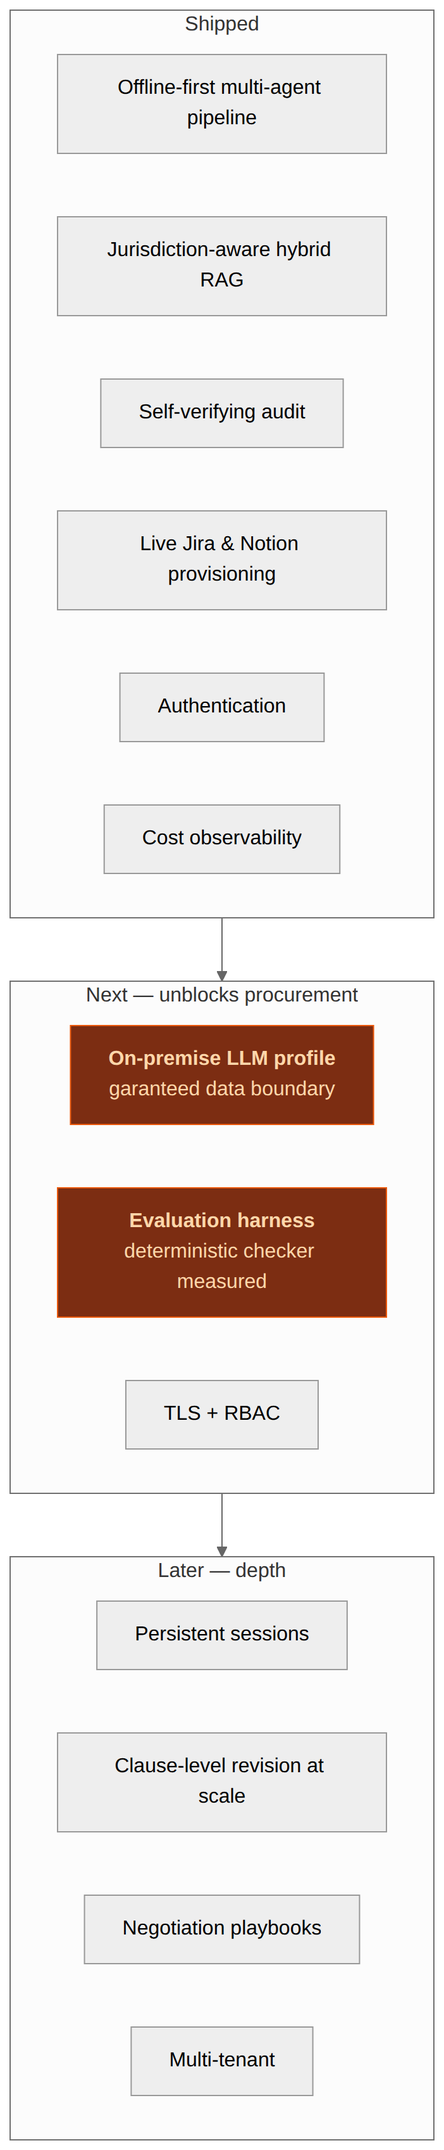
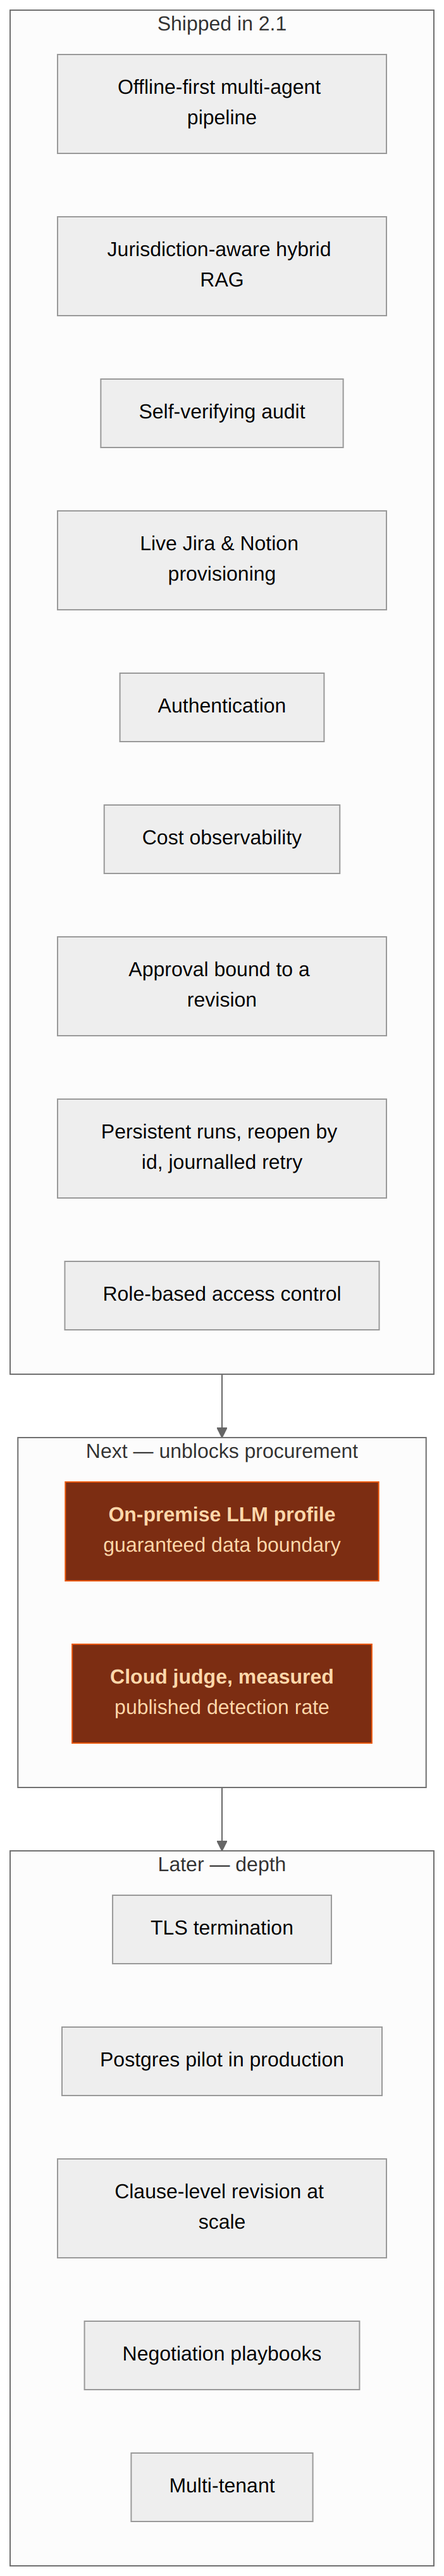
release: 2.1.0 (#57)
* release: 2.1.0

The version was still 2.0.0 everywhere while the features had moved a release ahead. This bumps
the package, the image tag and the action reference, writes the changelog entry, and reconciles
the documentation with what the code actually does.

## Documentation that had become false

Three claims were true in 2.0.0 and none was true in 2.1.0:

| Where | Said | Reality |
| :-- | :-- | :-- |
| Architecture | "No database. Sessions are checkpointed in memory." | Runs, decisions and journals are stored; the checkpointer is pluggable |
| Security | "No role-based access control — every user can do everything" | Four roles enforced; an author cannot approve their own run |
| Roadmap | "Roles are recorded but not enforced" | Enforced |

The roadmap entries are now split rather than deleted: what shipped, and what remains. RBAC is
done, so the entry is TLS alone. Persistence is done, so the entry is Postgres acceptance alone.
Deleting them would have hidden that the remaining halves are real.

The same reconciliation was applied to the two open issues that covered them (#22, #23): bodies
rewritten to describe only the open half, titles changed so the tracker does not read as if
nothing had shipped.

## Test counts

Five places claimed 483 or 490 tests. There are 626. A number nobody re-runs is a number that
quietly stops being true.

## The demo states its version

Streamlit Cloud redeploys from `main`, but a visitor had no way to tell a current deployment from
[…]

diff --git a/demo/streamlit_app.py b/demo/streamlit_app.py
@@ -71,6 +71,28 @@ st.set_page_config(
 #: The brief the demo opens with. Not decoration: it is the difference between a visitor
 #: seeing a contract that passed and a contract that failed its own audit.
 #:
+from sowsprint import __version__  # noqa: E402
+
+
+def _build_date() -> str:
+    """When this deployment's code was built, as far as the container can tell.
+
+    A visitor has no way to tell a current deployment from one that stopped redeploying months
+    ago, and this demo is the first thing most of them see. The version alone does not answer
+    it; the date does.
+    """
+    import datetime as _dt
+
+    stamp = os.environ.get("SOWSPRINT_BUILD_DATE", "").strip()
+    if stamp:
+        return stamp
+    try:
+        mtime = Path(__file__).stat().st_mtime
+        return _dt.datetime.fromtimestamp(mtime, _dt.UTC).strftime("%Y-%m-%d")
+    except OSError:
+        return "unknown"
+
+
 #: The offline drafter cites evidence only when a retrieved passage contains one of a clause's
 #: keywords, so a brief that mentions "GDPR-compliant logging" in passing produces clauses with
 #: nothing behind them — the audit then fails the draft on grounding, honestly and to nobody's
@@ -563,5 +585,6 @@ st.caption(
     "human approval gate, contract revision with locked clauses, and per-agent cost "
     "telemetry. "
     "[Repository](https://github.com/SergeyGer/SOWSprint.ai) · "
-    "[Wiki](https://github.com/SergeyGer/SOWSprint.ai/wiki)"
+    "[Wiki](https://github.com/SergeyGer/SOWSprint.ai/wiki) · "
+    f"running {__version__}, pushed {_build_date()}"
 )

diff --git a/src/sowsprint/__init__.py b/src/sowsprint/__init__.py
@@ -7,5 +7,5 @@ state graph with compliance-aware retrieval augmentation.
 
 from __future__ import annotations
 
-__version__ = "2.0.0"
+__version__ = "2.1.0"
 __all__ = ["__version__"]

diff --git a/CHANGELOG.md b/CHANGELOG.md
@@ -9,6 +9,79 @@ the what cannot help anyone decide whether to upgrade.
 
 ---
 
+## 2.1.0 — 2026-11-10
+
+Two release-blocking defects, both of the same shape: the system did something reasonable and
+said nothing, and the absence of a statement was read as success.
+
+**A dry run could write to a live tracker.** `ToolExecutor` never knew its own mode — the flag
+defaulted to `True` while the adapters read settings that said live — so a "validated, nothing
+sent" run created and deleted six real Jira projects and three Notion pages before anyone
+looked. The executor now takes its mode explicitly and refuses to send a live call without a
+publication decision on record.
+
+**A partial batch created a second project on retry.** No record of what had already been sent
+meant a retry re-created everything. Every operation now carries a key stable across attempts;
+the executor reads the journal first, skips what succeeded, and reuses the saved identifier, so
+a retry cannot create a second epic.
+
+### Added
+
+- **Publication policy** (`src/sowsprint/policy.py`) — one decision, made before anything is
+  provisioned: audit passed, not degraded, approved, snapshot matches, not already completed.
+  The snapshot hashes the contract, the backlog, the plan and the destinations, with volatile
+  fields excluded, so approval covers an exact revision rather than "whatever is current".
+- **Persistence** (`src/sowsprint/storage/`) — runs, revisions, decisions, operations and
+  events in SQLite, portable to Postgres; the checkpointer is chosen from a URL. A run is
+  persisted when it starts, so it is listable and reopenable before it finishes.
+- **Return to a run by identifier** — `/runs` lists them newest first and `/open <run_id>`
+  reopens one, including the approval card, with the actor who reopened it recorded.
+- **Operation journal** (`src/sowsprint/tools/journal.py`) — one row per attempted call, with
+  created / existing / skipped / uncertain / failed outcomes, per-destination counts, and a
+  next action computed from them.
+- **Role enforcement** (`src/sowsprint/security/roles.py`) — author, approver, admin, service.
+  An author cannot approve their own run; admin is appointed.
+- **Separated Jira and Notion results** — the result card reports each destination on its own
+  row, with links and a next action, instead of one aggregate count that hides a failure.
+- **Google Gemini** as a provider, alongside Anthropic, OpenAI and the offline engine.
+- **Engine line on every result** — which providers actually answered, and how many calls each
+  made. Two recordings were made of runs that looked like failing audits and were in fact a
+  401: every node retried, fell back, and completed silently.
+- **`demo/default_brief.md`** — the starting brief the interface offers through `/brief`. It was
+  chosen by measurement, not by writing: richer and longer briefs did not raise the score, and a
+  wider retrieval window scored *worse*.
+
+### Changed
+
+- **The approval gate cannot be bypassed.** `after_plan_tools` routed straight to provisioning
+  when `auto_deploy` was set, and `after_critic` did the same when the budget ran out, so a run
+  could publish without a decision. Both paths now go through the gate in live mode.
+- **The demo runs the current pipeline** and offers the same brief `/brief` does; its sample was
+  verified byte-identical to `demo/default_brief.md`.
+- **Documentation reconciled with the code.** The wiki claimed sessions were memory-only, that
+  roles were recorded but unenforced, and that there was no database. All three were true in
+  2.0.0 and none was true in 2.1.0; the roadmap entries were split into what shipped and what
+  remains.
+
+### Fixed
+
+- **The deterministic drafter put the brief's own heading into the contract.** A goal came back
+  from triage as `# Customer Analytics Platform — Nordwind Logistics The work is organised
+  into…` and appeared verbatim in the executive summary and in clause 2 — in the document a
+  client reads.
+- **`build_default_registry()` read global settings**, so a run constructed with dry-run
+  settings still wrote to live Jira.
+- **The reviewer was appointed too late** to approve, so a correctly authorised approver was
+  refused on their own run.
+- **`member` mapped to the service role** rather than author, which denied approval to ordinary
+  accounts.
+- **`save_run` refreshed `updated_at` on every write**, which made the run list reorder itself
+  for reasons unrelated to the run.
+- **CI hung for five minutes** installing ffmpeg in the documentation job; the video checks now
+  skip with a note when `ffprobe` is absent.
+
+---
+
 ## 2.0.0 — 2026-10-24
 
 The first tagged release. `2.0.0` is the version the repository already declared in

diff --git a/docs/wiki/Roadmap.md b/docs/wiki/Roadmap.md
@@ -4,26 +4,29 @@ Ordered by what unblocks adoption, not by what is most interesting to build.
 
 ```mermaid
 flowchart TB
-    subgraph now["Shipped"]
+    subgraph now["Shipped in 2.1"]
         N1["Offline-first multi-agent pipeline"]
         N2["Jurisdiction-aware hybrid RAG"]
         N3["Self-verifying audit"]
         N4["Live Jira &amp; Notion provisioning"]
         N5["Authentication"]
         N6["Cost observability"]
+        N7["Approval bound to a revision"]
+        N8["Persistent runs, reopen by id, journalled retry"]
+        N9["Role-based access control"]
     end
 
     subgraph next["Next — unblocks procurement"]
-        P1["<b>On-premise LLM profile</b><br/>garanteed data boundary"]
-        P2["<b>Evaluation harness</b><br/>deterministic checker measured"]
-        P3["TLS + RBAC"]
+        P1["<b>On-premise LLM profile</b><br/>guaranteed data boundary"]
+        P2["<b>Cloud judge, measured</b><br/>published detection rate"]
     end
 
     subgraph later["Later — depth"]
-        L1["Persistent sessions"]
-        L2["Clause-level revision at scale"]
-        L3["Negotiation playbooks"]
-        L4["Multi-tenant"]
+        L1["TLS termination"]
+        L2["Postgres pilot in production"]
+        L3["Clause-level revision at scale"]
+        L4["Negotiation playbooks"]
+        L5["Multi-tenant"]
     end
 
     now --> next --> later
@@ -64,20 +67,27 @@ The synthetic-defect corpus is cheap to build: mechanical injections (remove a m
 clause, corrupt a citation id, break the payment arithmetic) need no legal expertise and
 produce an unambiguous ground truth.
 
-### 3. TLS termination and role-based access control
-The application serves credentials and contracts over plain HTTP and treats every
-authenticated user identically. Both are acceptable for a LAN pilot and neither is
-acceptable for a shared deployment. Roles are already recorded in the account model; they
-are simply not enforced.
+## Later
+
+### 3. TLS termination
+**Role-based access control shipped in 2.1.0.** Four roles — author, approver, admin and
+service — and two rules that matter: an author can never approve their own run, and admin is
+appointed rather than assumed. The decision is recorded against the exact revision it covers.
+
+What remains is transport. The application serves credentials and contracts over plain HTTP,
+which is acceptable on a single host and not acceptable anywhere else. Terminating TLS at a
+reverse proxy is a deployment recipe; shipping it as a supported profile is the work.
 
 ---
 
-## Later
+### 4. Postgres in production
+**Persistence shipped in 2.1.0.** Runs, revisions, decisions, operations and events are stored
+in SQLite, the checkpointer is pluggable, and a run can be reopened by its identifier after a
+restart. Retry after a partial failure reads an operation journal, so a second attempt does
+not create a second epic.
 
-### 4. Persistent sessions
-Sessions live in memory, so a restart loses them. Moving the LangGraph checkpointer to
-Postgres would give resumable engagements, an audit trail of who approved what, and a
-foundation for multi-user deployments.
+What remains is operating it at scale: accepting the Postgres pilot on a real deployment,
+with backup and restore rehearsed rather than described.
 
 ### 5. Clause-level revision at scale
 Locking and targeted edits work. What is missing is a version history across revisions, so

diff --git a/README.md b/README.md
@@ -27,11 +27,13 @@ contract together with the delivery plan to execute it.
 
 **[📖 Engineering & product wiki →](https://github.com/SergeyGer/SOWSprint.ai/wiki)**
 
-**[▶ Watch it work](docs/media/demo-2.1.mp4)** — 1:49, narrated, on live models: a spoken brief,
-the audit, an approval by a second person, the contract on white stock, the Jira project and its
-timeline, the Notion page, and a retry that sends only what failed. 1920×1080, English subtitles
-in the container and as a sidecar ([\.srt](docs/media/demo-2.1.en.srt)). The pipeline's thinking
-time is compressed; nothing else is.
+**[▶ Watch it on YouTube](https://youtu.be/alHU4Lv4Ua4)** — 1:49, narrated, on live models: a
+spoken brief, the audit, an approval by a second person, the contract on white stock, the Jira
+project and its timeline, the Notion page, and a retry that sends only what failed.
+
+The same cut is in the repository ([`docs/media/demo-2.1.mp4`](docs/media/demo-2.1.mp4), English
+subtitles in the container and as a sidecar [`demo-2.1.en.srt`](docs/media/demo-2.1.en.srt)). The
+pipeline's thinking time is compressed; nothing else is.
 
 <a href="docs/media/demo-2.1.mp4"><img src="docs/media/03-transcribed.png" alt="A brief dictated by voice, transcribed, and the scope extracted from it" width="820"></a>
 
@@ -350,7 +352,7 @@ Four things took real engineering, and each is documented rather than asserted:
 | :-- | :-- |
 | **Jurisdiction is enforced in the search engine** | A clause from the wrong regime cannot reach the drafting agent — it fails at query time on both retrieval paths, not in a prompt |
 | **The audit verifies itself** | Claims are cross-checked against the document, severity is calibrated by category, and a verdict that came from a fallback is labelled as unreliable |
-| **It works with no credentials at all** | The deterministic engine runs the entire pipeline, which is why 490 tests need no network and CI needs no secrets |
+| **It works with no credentials at all** | The deterministic engine runs the entire pipeline, which is why 626 tests need no network and CI needs no secrets |
 | **Nothing is autonomous where it matters** | Dry-run is the default, the approval gate lists every planned call, and the report states plainly what was and was not sent |
 
 **[System design and the decisions behind it →](https://github.com/SergeyGer/SOWSprint.ai/wiki/Architecture)**
@@ -363,7 +365,7 @@ it — and it fails the step when its own audit rejects the contract, because pu
 contract the audit failed is worse than stopping.
 
 ```yaml
-- uses: SergeyGer/SOWSprint.ai@v2.0.0
+- uses: SergeyGer/SOWSprint.ai@v2.1.0
   id: sowsprint
   with:
     brief-file: brief.md        # or: brief: "one-paragraph requirement"
@@ -444,9 +446,9 @@ people get hurt:
 
 ## Project
 
-Built with LangGraph, Chainlit, Qdrant and Docker · **490 tests** · MIT licensed
+Built with LangGraph, Chainlit, Qdrant and Docker · **626 tests** · MIT licensed
 
-**[Latest release](https://github.com/SergeyGer/SOWSprint.ai/releases/latest)** — `v2.0.0`, published as `ghcr.io/sergeyger/sowsprint.ai:2.0.0`
+**[Latest release](https://github.com/SergeyGer/SOWSprint.ai/releases/latest)** — `v2.1.0`, published as `ghcr.io/sergeyger/sowsprint.ai:2.1.0`
 
 **[Contributing](CONTRIBUTING.md)** · **[Security policy](SECURITY.md)** · **[Changelog](CHANGELOG.md)** · **[Code of conduct](CODE_OF_CONDUCT.md)**
 

diff --git a/docs/wiki/Architecture.md b/docs/wiki/Architecture.md
@@ -70,7 +70,7 @@ flowchart LR
 
 This is not a demo mode bolted on afterwards. It is the reason:
 
-- **483 tests run with no network and no credentials**, so CI needs no secrets and a
+- **626 tests run with no network and no credentials**, so CI needs no secrets and a
   revoked key cannot break the build
 - The graph, the schemas, the artefacts and the UI are identical either way, so the
   offline path exercises the real code
@@ -163,8 +163,10 @@ input and output is a Pydantic model, so:
 
 ## Deliberate non-goals
 
-- **No database.** Sessions are in-process and checkpointed in memory. Persistence is a
-  roadmap item, not an oversight. → [Roadmap](Roadmap)
+- **No managed database service.** State lives in SQLite by default — runs, revisions,
+  decisions, operations and events — and the checkpointer can target Postgres for a pilot. What
+  is deliberately absent is a *service* to operate: one deployment, one file, no cluster. The
+  Postgres path is supported and tested; running it in production is the open item.
 - **No multi-tenancy.** One deployment serves one organisation. Adding tenancy without
   understanding the compliance boundary would be worse than not having it.
 - **No fine-tuning.** Retrieval and structured output solve the problem; fine-tuning would

diff --git a/docs/wiki/Security.md b/docs/wiki/Security.md
@@ -109,8 +109,8 @@ Stated because a security page that only lists strengths is not useful:
 
 | Gap | Consequence |
 | :-- | :-- |
-| **No TLS termination** | Deploy behind a reverse proxy. Credentials and contracts cross the LAN in clear text otherwise |
-| **No role-based access control** | Roles are recorded but every authenticated user can do everything, including provisioning |
+| **No TLS termination** | Deploy behind a reverse proxy; the application speaks plain HTTP |
+| **Roles are coarse** | Four roles — author, approver, admin, service. An author cannot approve their own run and an admin must be appointed, but there is no per-project scoping |
 | **No audit log of user actions** | Provider calls are logged; who approved what is not persisted beyond the run report |
 | **In-memory session state** | A restart loses active sessions; there is no database |
 | **No rate limiting** | A budget caps spend per session, but nothing caps the number of sessions |

diff --git a/docs/wiki/Testing.md b/docs/wiki/Testing.md
@@ -4,7 +4,7 @@
 
 ```mermaid
 flowchart TB
-    L1["<b>Unit &amp; integration</b><br/>483 tests · no network · no credentials<br/><i>Does the logic behave as specified?</i>"]
+    L1["<b>Unit &amp; integration</b><br/>626 tests · no network · no credentials<br/><i>Does the logic behave as specified?</i>"]
     L2["<b>Protocol</b><br/>socket.io harness · 12 checks<br/><i>Does the server emit what the UI needs?</i>"]
     L3["<b>Browser</b><br/>real Chromium · DOM assertions<br/><i>Does a user actually see it?</i>"]
     L4["<b>End-to-end</b><br/>full engagement · artifacts asserted<br/><i>Does the product work?</i>"]

diff --git a/docs/wiki/LLM-Quality.md b/docs/wiki/LLM-Quality.md
@@ -241,7 +241,7 @@ Statements this page cannot honestly make:
 ## How to verify any of this
 
 ```bash
-pytest -q                                    # 490 tests, including the ones named above
+pytest -q                                    # 626 tests, including the ones named above
 pytest tests/test_offline_engine.py -q -k "Grounding or JudgeSanity"
 ruff check src tests app.py
 ```

diff --git a/docs/vscode.md b/docs/vscode.md
@@ -50,7 +50,7 @@ Verify:
 
 ```bash
 .venv/bin/python -c "import sowsprint; print(sowsprint.__file__)"
-.venv/bin/python -m pytest tests -o addopts= -q      # 483 tests, ~20 s, no credentials needed
+.venv/bin/python -m pytest tests -o addopts= -q      # 626 tests, ~20 s, no credentials needed
 ```
 
 The suite is deliberately credential-free: every subsystem falls back to a local

diff --git a/SECURITY.md b/SECURITY.md
@@ -68,5 +68,5 @@ use the private channel above.
 
 ## Supported versions
 
-The project is pre-1.0 in everything but its image tag (`2.0.0`). Only the tip of `main`
+The project is pre-1.0 in everything but its image tag (`2.1.0`). Only the tip of `main`
 receives fixes; there are no maintained release branches to back-port to.
